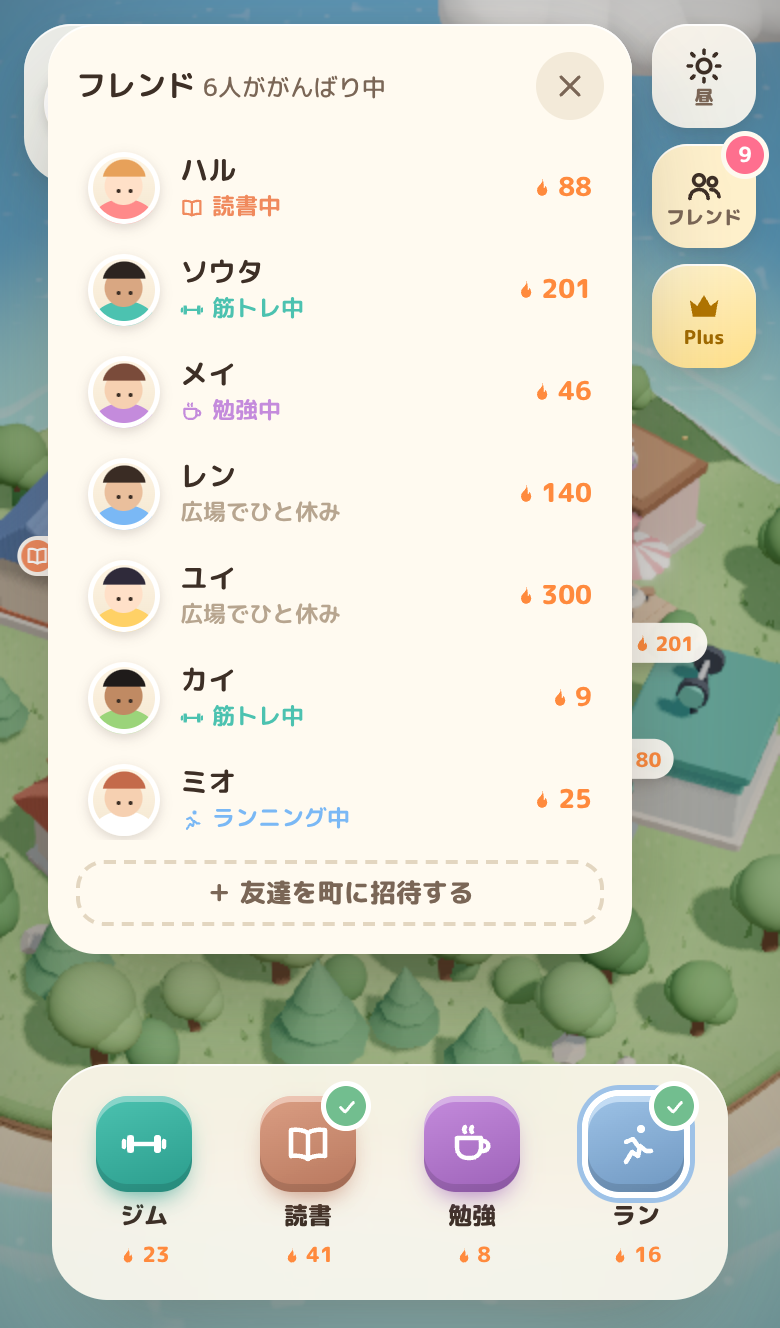
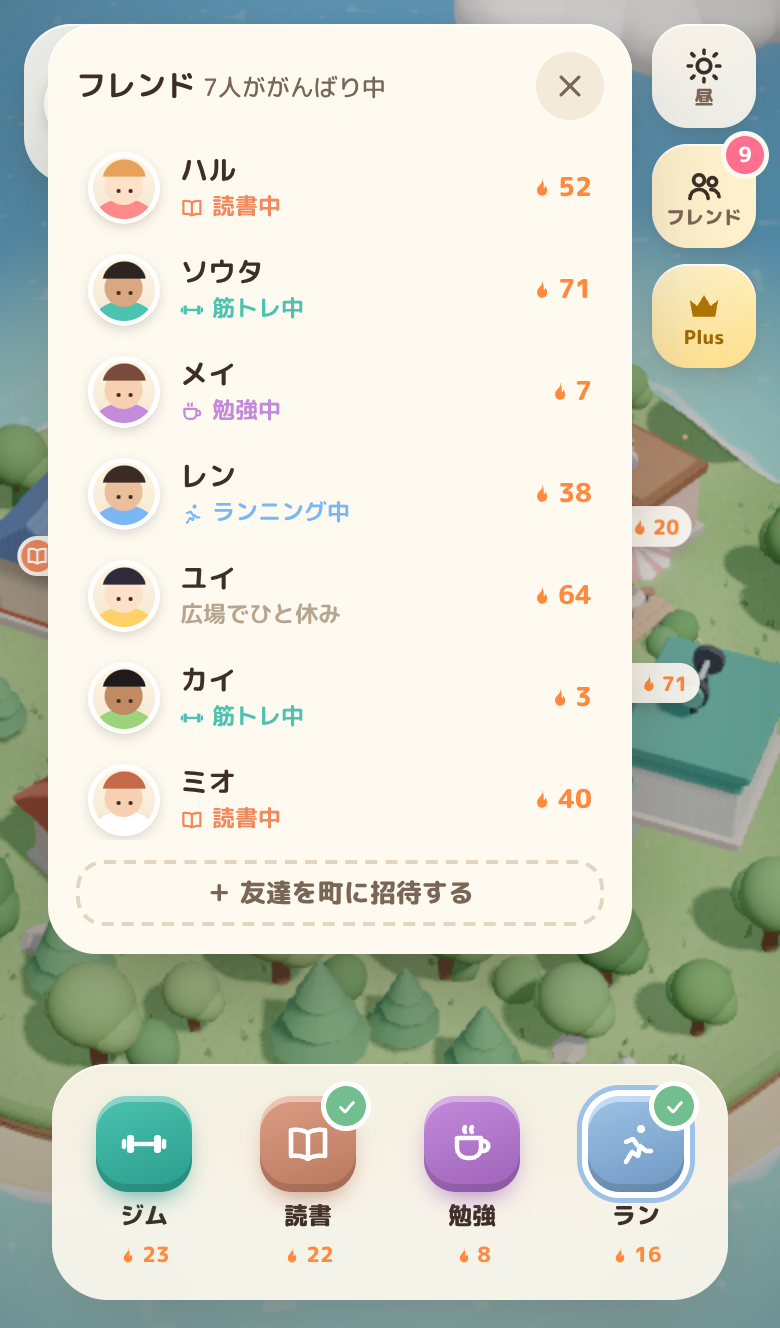
Habit Town: switch challenge from 75 weeks to 75 days
Header shows day N / 75 with days remaining, the plaza board has one pin
per day, and sample friends' days and streaks stay within 75.

Claude-Session: https://claude.ai/code/session_0146dGXZraJYKmCTfuWKbKM6

diff --git a/projects/habit-town/app/src/data/habits.ts b/projects/habit-town/app/src/data/habits.ts
@@ -21,7 +21,7 @@ export const habits: HabitDef[] = [
 
 export const habitById = Object.fromEntries(habits.map((h) => [h.id, h])) as Record<HabitId, HabitDef>
 
-export const CHALLENGE_WEEKS = 75
+export const CHALLENGE_DAYS = 75
 
 export type HairStyle = 'short' | 'bob' | 'bun' | 'spiky' | 'long'
 export type Accessory = 'none' | 'headband' | 'cap' | 'glasses' | 'flower'
@@ -42,7 +42,8 @@ export interface Person {
   name: string
   isMe: boolean
   look: Look
-  week: number
+  /** day of the 75-day challenge (1..75) */
+  day: number
   streaks: Record<HabitId, number>
   /** current activity, null = hanging out on the plaza */
   activity: HabitId | null
@@ -74,8 +75,8 @@ const rawPeople: Omit<Person, 'slot'>[] = [
       accessory: 'none',
       accent: '#ffcf5a',
     },
-    week: 12,
-    streaks: s(23, 41, 8, 15),
+    day: 23,
+    streaks: s(23, 22, 8, 15),
     activity: null,
     since: now,
   },
@@ -84,8 +85,8 @@ const rawPeople: Omit<Person, 'slot'>[] = [
     name: 'ハル',
     isMe: false,
     look: { skin: skins[0], hair: '#e7a15a', shirt: '#ff8a8a', pants: '#5c4a7a', shoes: '#fff4dc', hairStyle: 'bob', accessory: 'flower', accent: '#ff8a8a' },
-    week: 31,
-    streaks: s(12, 88, 30, 64),
+    day: 52,
+    streaks: s(12, 52, 30, 45),
     activity: 'read',
     since: now - 18 * min,
   },
@@ -94,8 +95,8 @@ const rawPeople: Omit<Person, 'slot'>[] = [
     name: 'ソウタ',
     isMe: false,
     look: { skin: skins[3], hair: '#2c2420', shirt: '#4cc2b0', pants: '#3b3f4f', shoes: '#ff7a59', hairStyle: 'spiky', accessory: 'headband', accent: '#4cc2b0' },
-    week: 48,
-    streaks: s(201, 14, 40, 120),
+    day: 71,
+    streaks: s(71, 14, 40, 66),
     activity: 'gym',
     since: now - 34 * min,
   },
@@ -104,8 +105,8 @@ const rawPeople: Omit<Person, 'slot'>[] = [
     name: 'メイ',
     isMe: false,
     look: { skin: skins[1], hair: '#7a4b3a', shirt: '#c48bdc', pants: '#f3e7d3', shoes: '#8a5bb0', hairStyle: 'bun', accessory: 'glasses', accent: '#c48bdc' },
-    week: 7,
-    streaks: s(5, 22, 46, 3),
+    day: 7,
+    streaks: s(5, 7, 7, 3),
     activity: 'study',
     since: now - 52 * min,
   },
@@ -114,8 +115,8 @@ const rawPeople: Omit<Person, 'slot'>[] = [
     name: 'レン',
     isMe: false,
     look: { skin: skins[2], hair: '#3a2c24', shirt: '#7ab8f5', pants: '#ffffff', shoes: '#4c90d6', hairStyle: 'short', accessory: 'cap', accent: '#7ab8f5' },
-    week: 22,
-    streaks: s(60, 10, 12, 140),
+    day: 38,
+    streaks: s(30, 10, 12, 38),
     activity: 'run',
     since: now - 9 * min,
   },
@@ -124,8 +125,8 @@ const rawPeople: Omit<Person, 'slot'>[] = [
     name: 'ユイ',
     isMe: false,
     look: { skin: skins[0], hair: '#2f2a3a', shirt: '#ffd166', pants: '#6c8f5a', shoes: '#ffffff', hairStyle: 'long', accessory: 'none', accent: '#ffd166' },
-    week: 64,
-    streaks: s(150, 300, 90, 40),
+    day: 64,
+    streaks: s(64, 60, 40, 22),
     activity: null,
     since: now - 4 * min,
   },
@@ -134,8 +135,8 @@ const rawPeople: Omit<Person, 'slot'>[] = [
     name: 'カイ',
     isMe: false,
     look: { skin: skins[4], hair: '#1f1b1a', shirt: '#9bd47a', pants: '#4a4e69', shoes: '#ffcf5a', hairStyle: 'short', accessory: 'headband', accent: '#9bd47a' },
-    week: 3,
-    streaks: s(9, 2, 1, 11),
+    day: 3,
+    streaks: s(3, 2, 1, 3),
     activity: 'gym',
     since: now - 12 * min,
   },
@@ -144,8 +145,8 @@ const rawPeople: Omit<Person, 'slot'>[] = [
     name: 'ミオ',
     isMe: false,
     look: { skin: skins[1], hair: '#c46a4a', shirt: '#ffffff', pants: '#e07a8f', shoes: '#5a4a6a', hairStyle: 'bob', accessory: 'none', accent: '#e07a8f' },
-    week: 40,
-    streaks: s(33, 120, 77, 25),
+    day: 40,
+    streaks: s(33, 40, 37, 25),
     activity: 'read',
     since: now - 41 * min,
   },
@@ -154,8 +155,8 @@ const rawPeople: Omit<Person, 'slot'>[] = [
     name: 'タク',
     isMe: false,
     look: { skin: skins[2], hair: '#4a3a2e', shirt: '#ff9f6b', pants: '#2f4858', shoes: '#ffffff', hairStyle: 'spiky', accessory: 'glasses', accent: '#ff9f6b' },
-    week: 15,
-    streaks: s(40, 18, 70, 6),
+    day: 15,
+    streaks: s(15, 12, 15, 6),
     activity: null,
     since: now - 2 * min,
   },
@@ -164,8 +165,8 @@ const rawPeople: Omit<Person, 'slot'>[] = [
     name: 'ナナ',
     isMe: false,
     look: { skin: skins[0], hair: '#e8c37a', shirt: '#8fd3ff', pants: '#f4b6c2', shoes: '#ffffff', hairStyle: 'long', accessory: 'flower', accent: '#8fd3ff' },
-    week: 55,
-    streaks: s(80, 60, 20, 210),
+    day: 55,
+    streaks: s(50, 55, 20, 55),
     activity: 'run',
     since: now - 27 * min,
   },

diff --git a/projects/habit-town/app/src/ui/HUD.tsx b/projects/habit-town/app/src/ui/HUD.tsx
@@ -1,5 +1,5 @@
 import { useEffect, useState } from 'react'
-import { CHALLENGE_WEEKS, habitById, habits } from '../data/habits'
+import { CHALLENGE_DAYS, habitById, habits } from '../data/habits'
 import type { HabitId, Person } from '../data/habits'
 import { useStore } from '../store'
 import { timeOfDayFromClock } from '../tokens'
@@ -66,10 +66,8 @@ function TopBar() {
   const setShopOpen = useStore((s) => s.setShopOpen)
   const todayDone = useStore((s) => s.todayDone)
   const friendCount = useStore((s) => s.order.length - 1)
-  const dayInWeek = 3
-  const day = (me.week - 1) * 7 + dayInWeek
   const doneCount = Object.values(todayDone).filter(Boolean).length
-  const pct = ((me.week - 1) / CHALLENGE_WEEKS) * 100 + (dayInWeek / 7 / CHALLENGE_WEEKS) * 100
+  const pct = (me.day / CHALLENGE_DAYS) * 100
 
   const tod = timeMode === 'auto' ? timeOfDayFromClock() : timeMode
   const TimeIcon = timeMode === 'auto' ? IconAuto : tod === 'morning' ? IconSunrise : tod === 'noon' ? IconSun : tod === 'evening' ? IconSunset : IconMoon
@@ -81,22 +79,22 @@ function TopBar() {
         <Avatar p={me} size={42} />
         <div className="challenge-body">
           <div className="challenge-title">
-            <span>75週チャレンジ</span>
+            <span>75日チャレンジ</span>
             <span className="today-pill" aria-label={`今日の達成 ${doneCount}/4`}>
               今日 {doneCount}/4
             </span>
           </div>
-          <div className="progress" role="progressbar" aria-valuemin={0} aria-valuemax={CHALLENGE_WEEKS} aria-valuenow={me.week}>
+          <div className="progress" role="progressbar" aria-valuemin={0} aria-valuemax={CHALLENGE_DAYS} aria-valuenow={me.day}>
             <div className="progress-fill" style={{ width: `${pct}%` }} />
             {[25, 50].map((m) => (
-              <span key={m} className="progress-tick" style={{ left: `${(m / CHALLENGE_WEEKS) * 100}%` }} />
+              <span key={m} className="progress-tick" style={{ left: `${(m / CHALLENGE_DAYS) * 100}%` }} />
             ))}
           </div>
           <div className="challenge-meta">
-            <b>第{me.week}週</b>
-            <span>/ {CHALLENGE_WEEKS}週</span>
+            <b>{me.day}日目</b>
+            <span>/ {CHALLENGE_DAYS}日</span>
             <span className="dot" />
-            <span>{day}日目</span>
+            <span>のこり{CHALLENGE_DAYS - me.day}日</span>
           </div>
         </div>
       </div>
@@ -230,7 +228,7 @@ function PersonSheet() {
         <div>
           <div className="sheet-name">
             {shown.name}
-            <span className="sheet-week">第{shown.week}週</span>
+            <span className="sheet-week">{shown.day}日目</span>
           </div>
           <div className="sheet-status" style={{ ['--c' as string]: h?.color ?? '#b7a58f' }}>
             <span className="status-dot" />
@@ -336,7 +334,7 @@ function Shop() {
           <IconCrown size={30} />
         </div>
         <h2>Habit Town Plus</h2>
-        <p className="muted">町をもっと自分らしく。75週を最後まで楽しく。</p>
+        <p className="muted">町をもっと自分らしく。75日を最後まで楽しく。</p>
         <ul className="perks">
           <li>
             <b>フレンド無制限</b>

diff --git a/projects/habit-town/app/src/world/Buildings.tsx b/projects/habit-town/app/src/world/Buildings.tsx
@@ -473,9 +473,9 @@ function Fountain() {
   )
 }
 
-/** 75-week challenge board: a wooden notice board with progress pins. */
+/** 75-day challenge board: a wooden notice board with one pin per day. */
 function ChallengeBoard({ p, ry }: { p: V3; ry: number }) {
-  const week = useStore((s) => s.people.me.week)
+  const day = useStore((s) => s.people.me.day)
   const pins = useMemo(() => Array.from({ length: 75 }, (_, i) => i), [])
   return (
     <group position={p} rotation-y={ry}>
@@ -488,12 +488,12 @@ function ChallengeBoard({ p, ry }: { p: V3; ry: number }) {
       {pins.map((i) => {
         const col = i % 15
         const row = Math.floor(i / 15)
-        const done = i < week
+        const done = i < day
         return (
           <mesh
             key={i}
             geometry={sphere(0.028, 8, 6)}
-            material={mat(done ? (i === week - 1 ? palette.goldDeep : '#4cc2b0') : '#e3d8c4')}
+            material={mat(done ? (i === day - 1 ? palette.goldDeep : '#4cc2b0') : '#e3d8c4')}
             position={[-0.63 + col * 0.09, 1.42 - row * 0.12, 0.1]}
           />
         )

diff --git a/projects/habit-town/app/src/store.ts b/projects/habit-town/app/src/store.ts
@@ -72,7 +72,7 @@ const rng = mulberry32(42)
 
 const timeCycle: ('auto' | TimeOfDay)[] = ['auto', 'morning', 'noon', 'evening', 'night']
 
-/** Seed flowers so the town already looks 12 weeks lived-in. */
+/** Seed flowers so the town already looks 23 days lived-in. */
 function seedFlowers(): Flower[] {
   const out: Flower[] = []
   const r = mulberry32(7)

diff --git a/projects/habit-town/brief.md b/projects/habit-town/brief.md
@@ -1,11 +1,11 @@
-# 案件ブリーフ: Habit Town（75週チャレンジ）
+# 案件ブリーフ: Habit Town（75日チャレンジ）
 
 - 作成日: 2026-11-12
 - 現在のゲート: G0（未判定）※ 品質確認用の3Dプロトタイプを先に作成済み
 - 一言サマリ（1秒理解テスト）: 習慣をこなすと、自分のキャラが箱庭の町の「その場所」へ歩いていく習慣トラッカー
 
 ## 背景 / 狙うペイン
-75日・75週チャレンジ系の習慣アプリは、ほとんどが2Dのチェックリスト。続けた手応えが見えにくく、ひとりだと飽きる。
+75日チャレンジ（75 Hard）系の習慣アプリは、ほとんどが2Dのチェックリスト。続けた手応えが見えにくく、ひとりだと飽きる。
 
 ## ターゲット
 自分を変えたい20〜30代。スマホが中心。

diff --git a/projects/habit-town/app/README.md b/projects/habit-town/app/README.md
@@ -1,6 +1,6 @@
 # Habit Town（3Dプロトタイプ）
 
-75週チャレンジを、箱庭の3Dの町で続ける習慣トラッカーの品質確認用プロトタイプ。
+75日チャレンジを、箱庭の3Dの町で続ける習慣トラッカーの品質確認用プロトタイプ。
 
 ## 起動
 ```bash

diff --git a/projects/habit-town/README.md b/projects/habit-town/README.md
@@ -1,3 +1,3 @@
 # projects/habit-town
 
-75週チャレンジ × 箱庭3Dの習慣アプリ。概要は [brief.md](./brief.md)、3Dプロトタイプは [app/](./app/)。
+75日チャレンジ × 箱庭3Dの習慣アプリ。概要は [brief.md](./brief.md)、3Dプロトタイプは [app/](./app/)。
